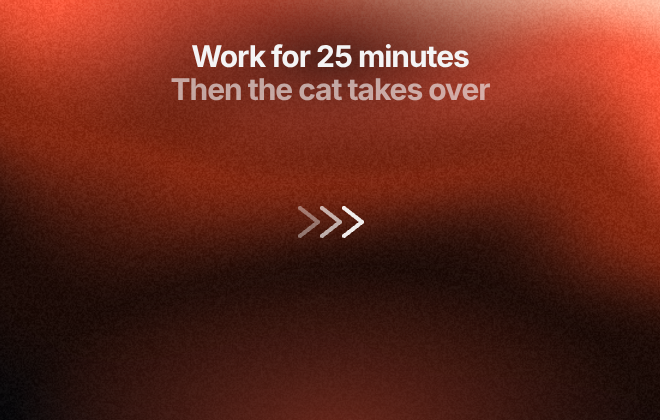
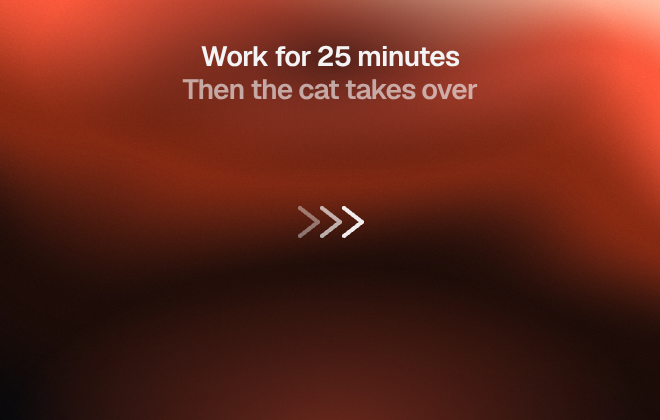
feat(release): restyle the DMG background with Geist and finer grain (#146)
* feat(release): restyle the DMG background with Geist and finer grain

Fé asked for the installer to follow the new site look: titles in a
sans-serif (Geist, as on the site) and a finer gradient grain. The
headline now uses Geist 600 from site/fonts, and the gradient uses the
site's new grain settings (amount 0.05, size 1). The render script
fails if Geist did not load, so a fallback font is never committed.
The yawning-cat app icon comes from Resources/AppIcon.icns, which the
DMG already uses for the app and the volume.

Claude-Session: https://claude.ai/code/session_01NzgfqKYP3hZHKi3AinxWEB

* feat(release): use only fine grain and resize the headline for Geist

uGrainSize is grainSize times the device pixel ratio, so size 1 at 2x
rendered the coarse clumps. Size 0.5 at 2x keeps the grain to one
device pixel, and a lower amount (0.03) makes it quieter, as Fé asked.
Geist is wider than the system font, so the headline drops to 28 px
with looser tracking and line height.

Claude-Session: https://claude.ai/code/session_01NzgfqKYP3hZHKi3AinxWEB

---------

Changed region(s): [[0.2424, 0.0929, 0.7576, 0.2476]]

diff --git a/scripts/dmg-background/background.html b/scripts/dmg-background/background.html
@@ -14,6 +14,8 @@
 <meta charset="utf-8">
 <title>Maramao DMG background</title>
 <style>
+  /* Geist, the site's sans for the wordmark and titles (site/fonts, OFL 1.1) */
+  @font-face { font-family: "Geist"; src: url("../../site/fonts/geist-latin.wght.woff2") format("woff2"); font-weight: 100 900; font-display: block; }
   html, body { margin: 0; background: #08080a; }
   .bg { position: relative; width: 660px; height: 420px; overflow: hidden; background: #08080a; font-family: -apple-system, "Inter", "Helvetica Neue", Arial, sans-serif; }
   .grainient { position: absolute; inset: 0; }
@@ -21,7 +23,7 @@
   /* A warm glow under the icons and a dark veil behind the headline, as on the site */
   .glow { position: absolute; inset: 0; background: radial-gradient(70% 60% at 50% 105%, rgb(255 90 60 / 38%), transparent 70%); }
   .veil { position: absolute; inset: 0; background: radial-gradient(60% 40% at 50% 14%, rgb(8 8 10 / 70%), transparent 75%); }
-  h1 { position: absolute; left: 0; right: 0; top: 40px; margin: 0; text-align: center; color: #f4f4f5; font-size: 30px; font-weight: 700; letter-spacing: -.035em; line-height: 1.1; }
+  h1 { position: absolute; left: 0; right: 0; top: 40px; margin: 0; text-align: center; color: #f4f4f5; font-family: "Geist", -apple-system, "Helvetica Neue", Arial, sans-serif; font-size: 28px; font-weight: 600; letter-spacing: -.03em; line-height: 1.18; }
   h1 span { color: rgb(244 244 245 / 62%); }
   .arrow { position: absolute; left: 290px; top: 202px; }
   .icon { position: absolute; top: 158px; width: 128px; text-align: center; color: #fff; font-size: 13px; }
@@ -31,7 +33,7 @@
 </head>
 <body>
 <div class="bg" id="bg">
-  <div class="grainient" data-grainient data-colors="#08080a,#1d0c08,#8a2a12,#ff5a3c,#ffc2a8" data-angle="20" data-speed="0.8" data-flow="0.9" data-silk="0.3" data-grain-amount="0.07" data-dpr="2" data-interactive="false"><canvas></canvas></div>
+  <div class="grainient" data-grainient data-colors="#08080a,#1d0c08,#8a2a12,#ff5a3c,#ffc2a8" data-angle="20" data-speed="0.8" data-flow="0.9" data-silk="0.3" data-grain-amount="0.03" data-grain-size="0.5" data-dpr="2" data-interactive="false"><canvas></canvas></div>
   <div class="glow"></div>
   <div class="veil"></div>
   <h1>Work for 25 minutes<br><span>Then the cat takes over</span></h1>
